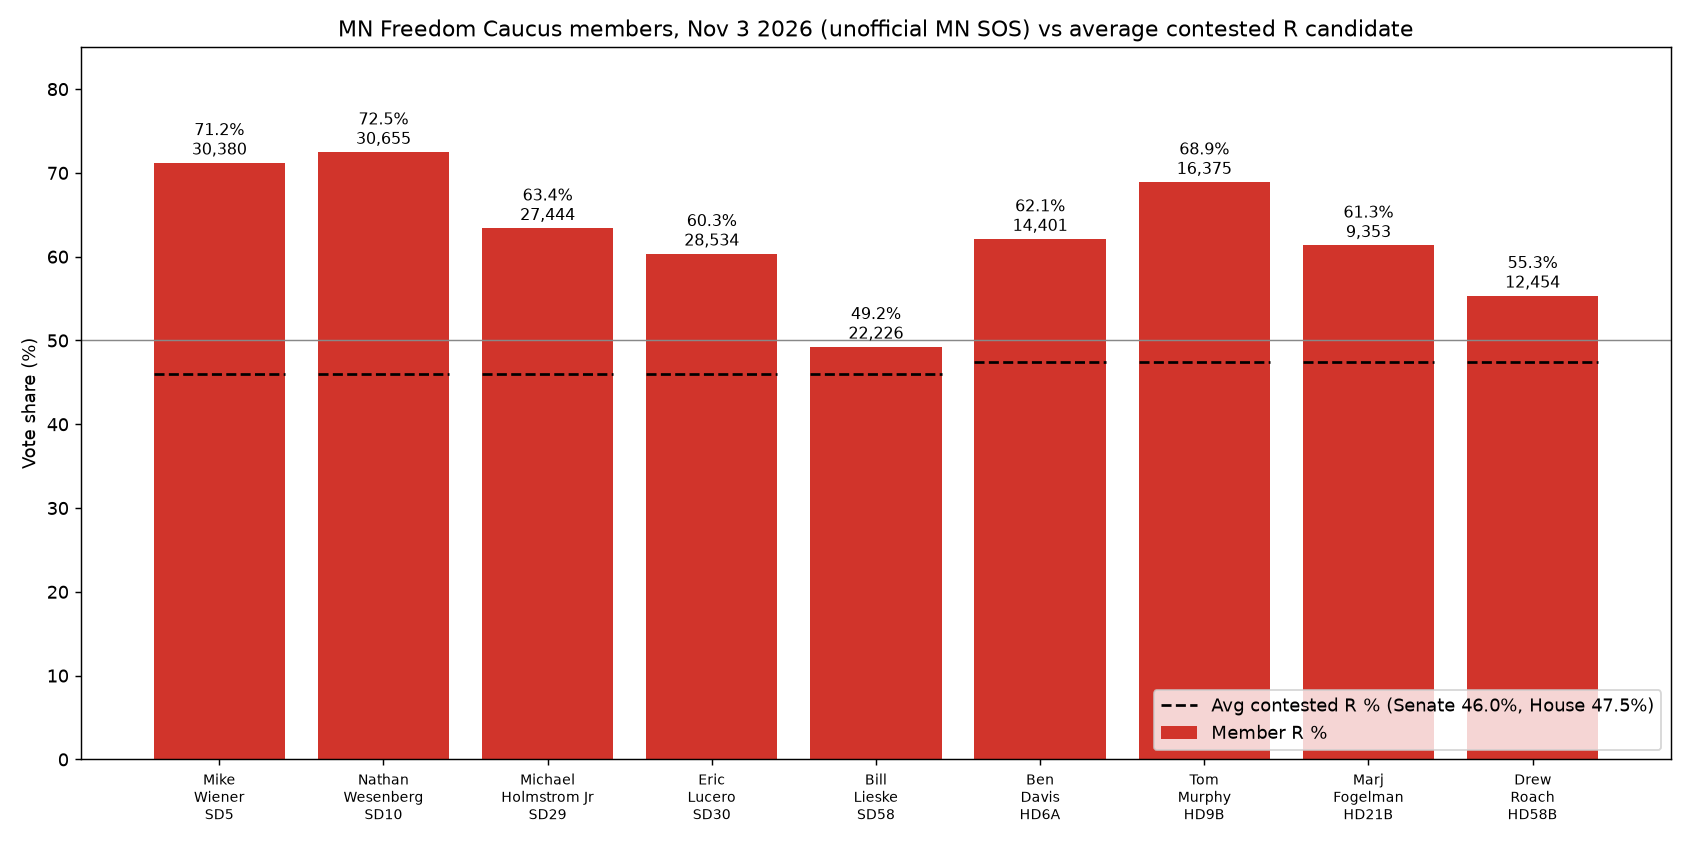
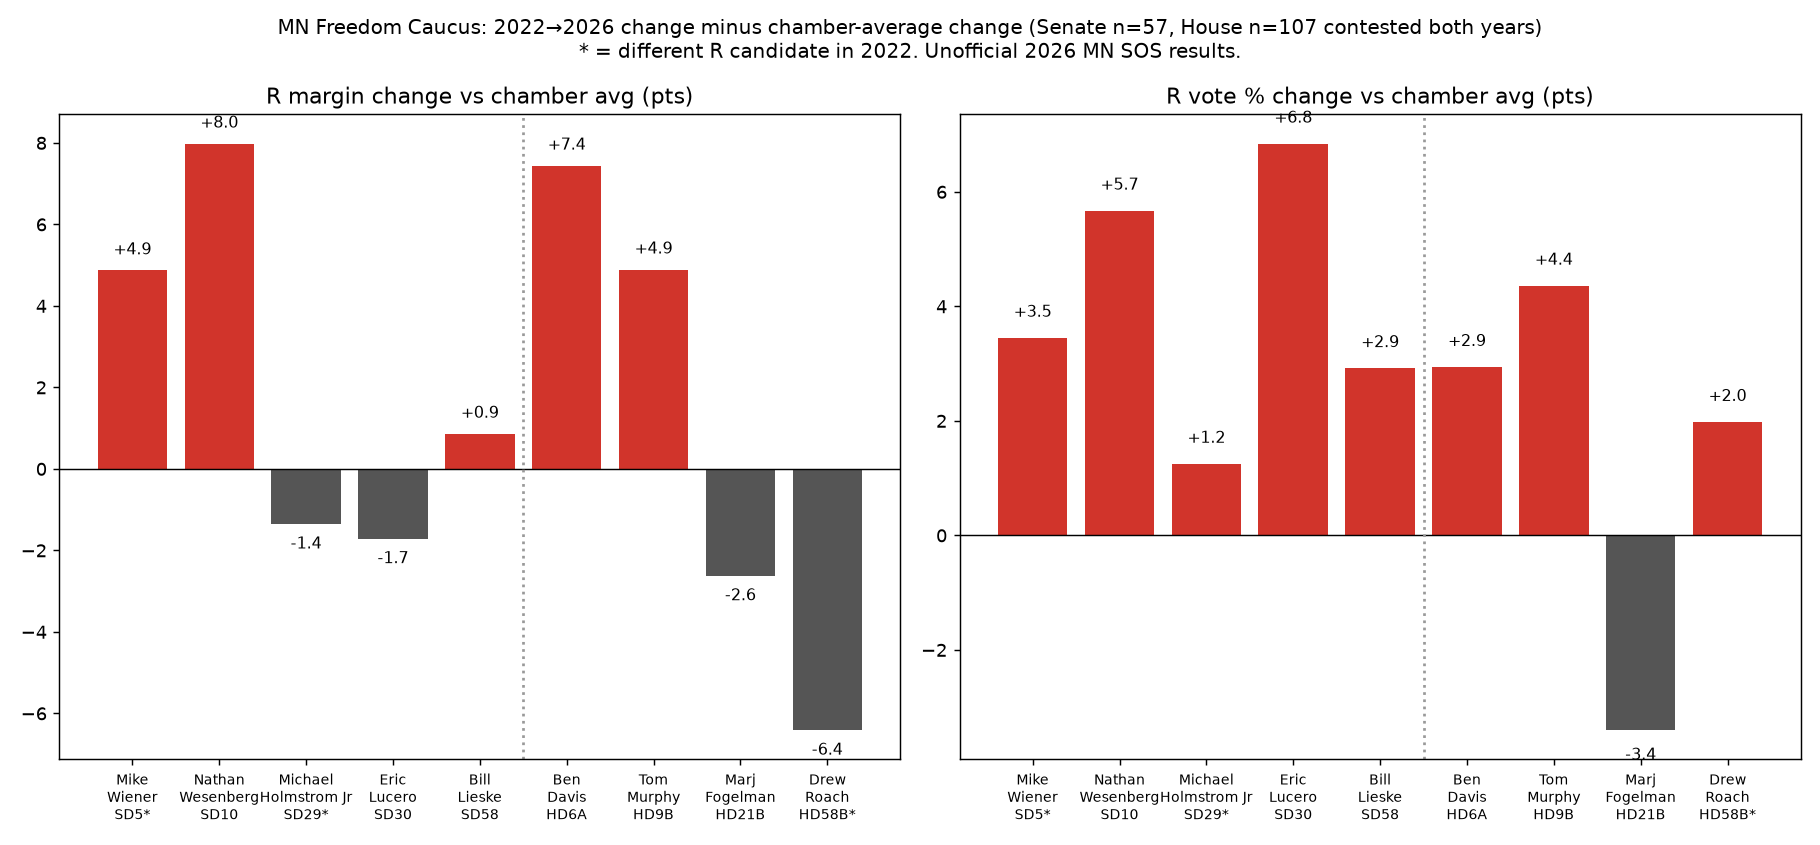
FC page: change vs 2022

diff --git a/freedom-caucus.html b/freedom-caucus.html
@@ -1,14 +1,20 @@
-<!DOCTYPE html><html lang="en"><head><meta charset="utf-8"><meta name="viewport" content="width=device-width,initial-scale=1"><title>MN Freedom Caucus 2026 Results</title>
+<!DOCTYPE html><html lang="en"><head><meta charset="utf-8"><meta name="viewport" content="width=device-width,initial-scale=1"><title>MN Freedom Caucus: 2026 vs 2022</title>
 <style>body{font-family:system-ui,sans-serif;max-width:1100px;margin:auto;padding:16px;color:#222}h1{color:#d1342b}img{width:100%}table{border-collapse:collapse;width:100%;font-size:14px}td,th{border-bottom:1px solid #ddd;padding:4px 8px;text-align:right}td:first-child,th:first-child{text-align:left}.hl{background:#fff3c4;font-weight:600}</style></head><body>
 <p><a href="./">&larr; Back to the results map</a></p>
-<h1>MN Freedom Caucus Members: 2026 Results</h1>
-<p>November 3, 2026 general election, unofficial results from the MN Secretary of State. Each member's votes, vote share, margin and district turnout are compared with the average Republican candidate in a contested race in the same chamber. The Senate average covers 63 candidates: 19,344 votes and 45.98%. The House average covers 117 candidates: 9,982 votes and 47.46%. Districts with no Republican on the ballot are left out of both averages.</p>
-<img src="freedom_caucus_chart.png" alt="Freedom Caucus vote share vs average Republican">
+<h1>MN Freedom Caucus: Republican Performance, 2026 vs 2022</h1>
+<p>A district's raw vote share mostly reflects how Republican it already is. This page measures <b>change</b> instead. It compares the Republican result in each member's district in 2026 (unofficial, Nov 3) with 2022. Both years use the same district boundaries. Each change is then compared with the <b>average change across every district in that chamber</b> that had both an R and a non-write-in opponent in both years. That is 57 Senate districts and 107 House districts. <b>Over/under-performance = member change − chamber average change.</b> Senators and Wiener (SD5) are compared with the Senate average. House members are compared with the House average.</p>
+<img src="freedom_caucus_chart.png" alt="Over/under-performance vs average Republican change">
 <p><a href="freedom_caucus_2026.csv">Download CSV</a></p>
-<table><tr><th>Member</th><th>District</th><th>Votes</th><th>Vote %</th><th>Opponent</th><th>Margin</th><th>District total</th><th>vs avg R (votes)</th><th>vs avg R (%)</th><th>Result</th></tr><tr><td>Rep. Mike Wiener (ran for SD5)</td><td>SD5</td><td>30,380</td><td>71.19%</td><td>Skylar Fynboh (DFL): 12,197</td><td>+18,183 (+42.61 pts)</td><td>42,676</td><td>+11,036</td><td>+25.21 pts</td><td>Won</td></tr><tr><td>Sen. Nathan Wesenberg</td><td>SD10</td><td>30,655</td><td>72.46%</td><td>Tara Killen (DFL): 11,593</td><td>+19,062 (+45.06 pts)</td><td>42,307</td><td>+11,311</td><td>+26.48 pts</td><td>Won</td></tr><tr class="hl"><td>Sen. Michael Holmstrom Jr</td><td>SD29</td><td>27,444</td><td>63.38%</td><td>Louis McNutt (DFL): 15,836</td><td>+11,608 (+26.81 pts)</td><td>43,304</td><td>+8,100</td><td>+17.40 pts</td><td>Won</td></tr><tr><td>Sen. Eric Lucero</td><td>SD30</td><td>28,534</td><td>60.33%</td><td>Leah Temple (DFL): 18,743</td><td>+9,791 (+20.70 pts)</td><td>47,296</td><td>+9,190</td><td>+14.35 pts</td><td>Won</td></tr><tr><td>Sen. Bill Lieske</td><td>SD58</td><td>22,226</td><td>49.23%</td><td>Mark Legvold (DFL): 22,889</td><td>-663 (-1.47 pts)</td><td>45,150</td><td>+2,882</td><td>+3.25 pts</td><td>Lost</td></tr><tr><td>Rep. Ben Davis</td><td>HD6A</td><td>14,401</td><td>62.09%</td><td>Samuel Grigsby (DFL): 8,780</td><td>+5,621 (+24.23 pts)</td><td>23,194</td><td>+4,419</td><td>+14.63 pts</td><td>Won</td></tr><tr><td>Rep. Tom Murphy</td><td>HD9B</td><td>16,375</td><td>68.88%</td><td>Owen Werner (DFL): 7,380</td><td>+8,995 (+37.84 pts)</td><td>23,772</td><td>+6,393</td><td>+21.42 pts</td><td>Won</td></tr><tr><td>Rep. Marj Fogelman</td><td>HD21B</td><td>9,353</td><td>61.34%</td><td>Jon Wilson (DFL): 5,887</td><td>+3,466 (+22.73 pts)</td><td>15,247</td><td>-629</td><td>+13.88 pts</td><td>Won</td></tr><tr><td>Rep. Drew Roach</td><td>HD58B</td><td>12,454</td><td>55.32%</td><td>Ed Fellows (DFL): 10,043</td><td>+2,411 (+10.71 pts)</td><td>22,514</td><td>+2,472</td><td>+7.86 pts</td><td>Won</td></tr></table>
+<h2>Over/under-performance vs average R change</h2>
+<table><tr><th>Member</th><th>District</th><th>Compared to</th><th>R vote % change vs avg (pts)</th><th>R share change vs avg (pts)</th><th>R margin change vs avg (pts)</th></tr><tr><td>Rep. Mike Wiener (ran for SD5)*</td><td>SD5</td><td>Senate</td><td>+3.45</td><td>+2.20</td><td>+4.87</td></tr><tr><td>Sen. Nathan Wesenberg</td><td>SD10</td><td>Senate</td><td>+5.67</td><td>+3.90</td><td>+7.98</td></tr><tr class="hl"><td>Sen. Michael Holmstrom Jr*</td><td>SD29</td><td>Senate</td><td>+1.25</td><td>-0.82</td><td>-1.35</td></tr><tr><td>Sen. Eric Lucero</td><td>SD30</td><td>Senate</td><td>+6.84</td><td>-1.01</td><td>-1.71</td></tr><tr><td>Sen. Bill Lieske</td><td>SD58</td><td>Senate</td><td>+2.92</td><td>+0.28</td><td>+0.86</td></tr><tr><td>Rep. Ben Davis</td><td>HD6A</td><td>House</td><td>+2.94</td><td>+3.59</td><td>+7.44</td></tr><tr><td>Rep. Tom Murphy</td><td>HD9B</td><td>House</td><td>+4.36</td><td>+2.39</td><td>+4.89</td></tr><tr><td>Rep. Marj Fogelman</td><td>HD21B</td><td>House</td><td>-3.40</td><td>-1.37</td><td>-2.62</td></tr><tr><td>Rep. Drew Roach*</td><td>HD58B</td><td>House</td><td>+1.98</td><td>-3.31</td><td>-6.41</td></tr></table>
+<h2>Chamber averages (contested both years)</h2>
+<table><tr><th>Chamber</th><th>Districts</th><th>Avg R vote change</th><th>Avg R vote % change</th><th>Avg R share change (pts)</th><th>Avg R margin change (pts)</th></tr><tr><td>Senate</td><td>57</td><td>+618</td><td>+2.29%</td><td>-3.84</td><td>-8.00</td></tr><tr><td>House</td><td>107</td><td>+331</td><td>+2.51%</td><td>-3.79</td><td>-7.84</td></tr></table>
+<h2>Member districts: 2022 → 2026</h2>
+<table><tr><th>Member</th><th>District</th><th>R votes 2022</th><th>R votes 2026</th><th>Change</th><th>% change</th><th>Share change (pts)</th><th>R margin 2022 → 2026 (pts)</th><th>Margin change (pts)</th></tr><tr><td>Rep. Mike Wiener (ran for SD5)*</td><td>SD5</td><td>28,731</td><td>30,380</td><td>+1,649</td><td>+5.74%</td><td>-1.64</td><td>+45.7 → +42.6</td><td>-3.13</td></tr><tr><td>Sen. Nathan Wesenberg</td><td>SD10</td><td>28,395</td><td>30,655</td><td>+2,260</td><td>+7.96%</td><td>+0.05</td><td>+45.1 → +45.1</td><td>-0.02</td></tr><tr class="hl"><td>Sen. Michael Holmstrom Jr*</td><td>SD29</td><td>26,505</td><td>27,444</td><td>+939</td><td>+3.54%</td><td>-4.66</td><td>+36.1 → +26.8</td><td>-9.35</td></tr><tr><td>Sen. Eric Lucero</td><td>SD30</td><td>26,146</td><td>28,534</td><td>+2,388</td><td>+9.13%</td><td>-4.85</td><td>+30.4 → +20.7</td><td>-9.71</td></tr><tr><td>Sen. Bill Lieske</td><td>SD58</td><td>21,125</td><td>22,226</td><td>+1,101</td><td>+5.21%</td><td>-3.56</td><td>+5.7 → -1.5</td><td>-7.14</td></tr><tr><td>Rep. Ben Davis</td><td>HD6A</td><td>13,657</td><td>14,401</td><td>+744</td><td>+5.45%</td><td>-0.21</td><td>+24.6 → +24.2</td><td>-0.39</td></tr><tr><td>Rep. Tom Murphy</td><td>HD9B</td><td>15,322</td><td>16,375</td><td>+1,053</td><td>+6.87%</td><td>-1.41</td><td>+40.8 → +37.8</td><td>-2.95</td></tr><tr><td>Rep. Marj Fogelman</td><td>HD21B</td><td>9,437</td><td>9,353</td><td>-84</td><td>-0.89%</td><td>-5.16</td><td>+33.2 → +22.7</td><td>-10.46</td></tr><tr><td>Rep. Drew Roach*</td><td>HD58B</td><td>11,919</td><td>12,454</td><td>+535</td><td>+4.49%</td><td>-7.11</td><td>+24.9 → +10.7</td><td>-14.24</td></tr></table>
+<h2>Flags</h2><ul><li><b>SD5</b>: 2022 SD5 R was Paul Utke (different candidate); Wiener was the HD5B rep in 2022. Compared district-to-district, not candidate-to-candidate.</li><li><b>SD29</b>: 2022 SD29 R was Bruce Anderson (different candidate). Compared district-to-district.</li><li><b>SD58</b>: Same candidate both years; lost in 2026 by 663.</li><li><b>HD58B</b>: 2022 HD58B R was Patrick Garofalo (different candidate). Compared district-to-district.</li><li>None of the 9 member districts was uncontested in 2022. Across the state, 2022 races with an R and no ballot opponent (e.g. SD1, SD21, SD22, HD10A, HD17B, HD26B, HD29B) are left out of the averages, as are races with no R in either year.</li><li>The averages do not adjust for candidate changes or open seats in non-member districts.</li></ul>
 <h2>Compared with Demuth (Governor) and Tafoya (U.S. Senate)</h2>
 <p>Statewide unofficial results as reported: Lisa Demuth (R, Governor) had 1,205,798 votes (42.6%). Michele Tafoya (R, U.S. Senate) had 1,232,683 votes (43.6%). <strong>We have not yet sourced their votes within each legislative district.</strong> The MN SOS has not posted a by-legislative-district file for these races. Its precinct-level files cannot be added up by district without a precinct-to-district table, which we have not verified. So this page shows no district-level comparison with Demuth or Tafoya. One will be added once the SOS or a county publishes those numbers.</p>
 <h2>Notes</h2>
-<p>Rep. Mike Wiener (spelled "Wiener" in SOS files) ran for Senate District 5 and is compared against Senate candidates. Margin = member votes minus the top opponent's votes. Margin in points is that margin as a share of the district total, which includes write-ins. The chamber average is a simple mean across contested Republican candidates. All results are unofficial until the canvass.</p>
-<p>Sources: <a href="https://electionresultsfiles.sos.mn.gov/20261103/stsenate.txt">MN SOS State Senate</a>, <a href="https://electionresultsfiles.sos.mn.gov/20261103/LegislativeByDistrict.txt">MN SOS State House</a>. Statewide Demuth and Tafoya totals come from published results as relayed by <a href="https://movement.vote/election-results/2026/minnesota/">movement.vote</a> and <a href="https://www.cbsnews.com/minnesota/news/minnesota-election-results-and-live-counts-for-2026-midterm-election/">CBS Minnesota</a> (about 99% counted).</p>
+<p>Vote share = R votes ÷ all votes cast in the race, including write-ins. Margin = (R − top non-write-in opponent) ÷ total votes. 2022 HD5B was R vs Independence-Alliance. Averages are simple means across districts. 2026 results are unofficial until the canvass.</p>
+<p>Sources: MN SOS <a href="https://electionresultsfiles.sos.mn.gov/20261103/stsenate.txt">2026 Senate</a>, <a href="https://electionresultsfiles.sos.mn.gov/20261103/LegislativeByDistrict.txt">2026 House</a>, <a href="https://electionresultsfiles.sos.mn.gov/20221108/stsenate.txt">2022 Senate</a>, <a href="https://electionresultsfiles.sos.mn.gov/20221108/LegislativeByDistrict.txt">2022 House</a>. Statewide Demuth and Tafoya totals come from published results relayed by <a href="https://movement.vote/election-results/2026/minnesota/">movement.vote</a> and <a href="https://www.cbsnews.com/minnesota/news/minnesota-election-results-and-live-counts-for-2026-midterm-election/">CBS Minnesota</a> (about 99% counted).</p>
 </body></html>
